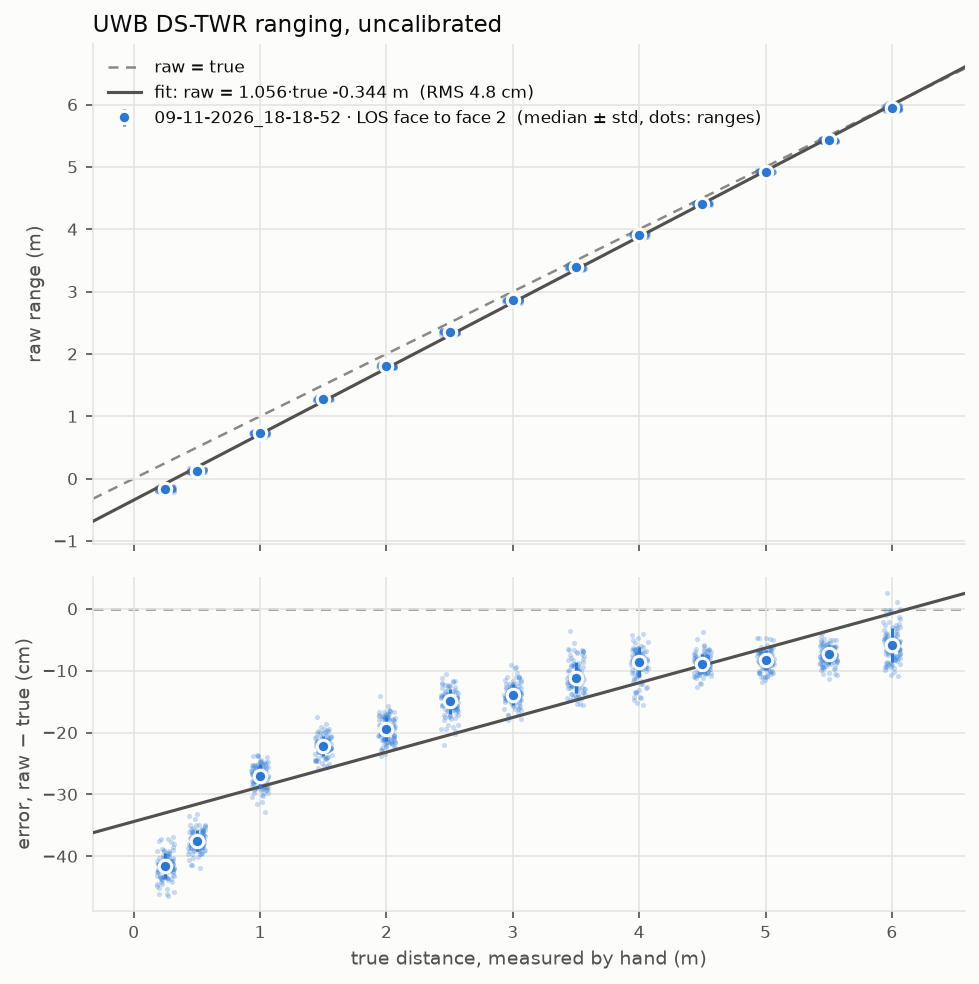
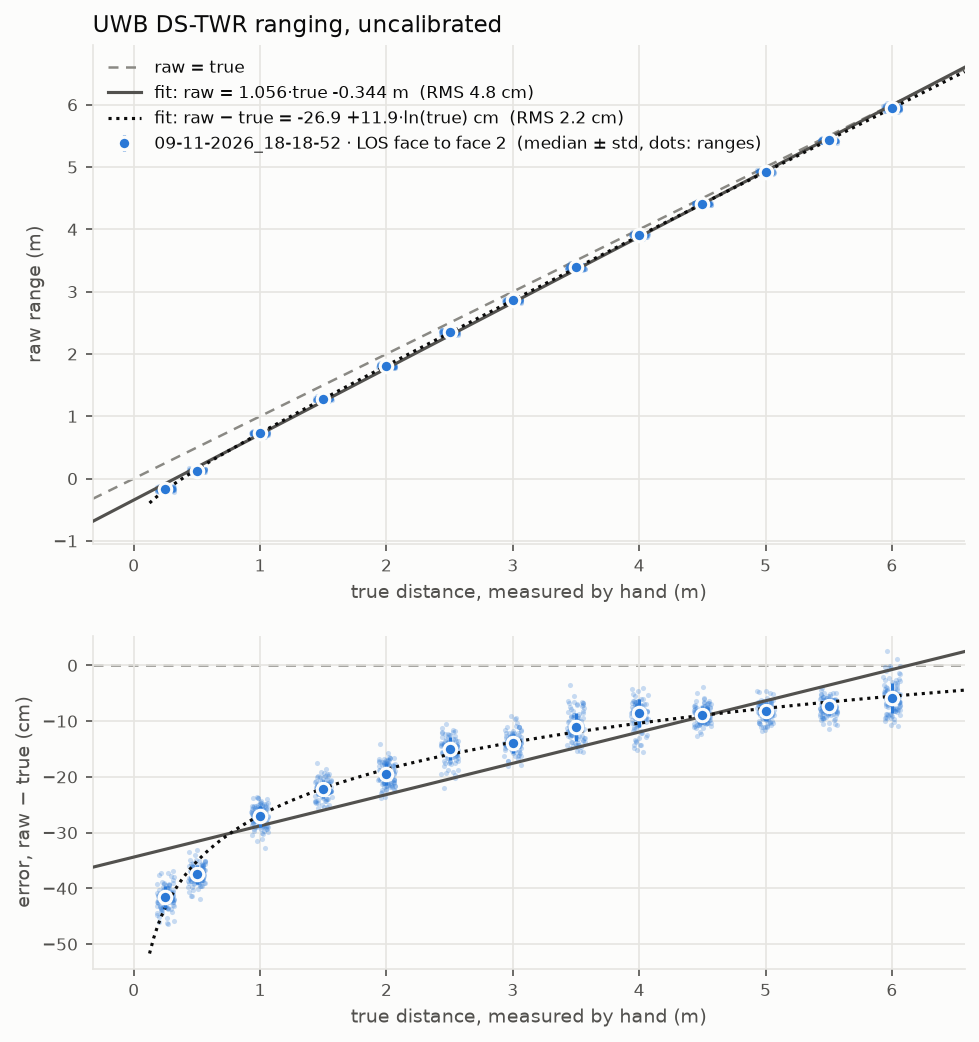
log fit and x axis on every graph

diff --git a/plots/uwb_ranging.py b/plots/uwb_ranging.py
@@ -24,6 +24,11 @@ The fit is  raw = a * true + b  over all non-outlier ranges. Inverted, it
 is the per-anchor correction of hera_uwb (Range = Scale * Raw + Bias):
 Scale = 1/a, Bias = -b/a.
 
+A second fit, error = c0 + c1 * ln(true), follows the DW1000's bias that
+depends on the received power (which falls with 20 log10 of the distance):
+the error is largest close up and shrinks with distance, which a straight
+line can't follow over a wide range of distances.
+
 Needs numpy and matplotlib.
 """
 
@@ -149,6 +154,20 @@ def fit(sessions):
     return {"a": a, "b": b, "rms": float(np.sqrt(np.mean(resid ** 2))), "n": len(x)}
 
 
+def fit_log(sessions):
+    """error = raw - true = c0 + c1 * ln(true), over the non-outlier ranges."""
+    x = np.concatenate([np.full(pt["inlier"].sum(), pt["true"])
+                        for s in sessions for pt in s["points"]])
+    y = np.concatenate([pt["d"][pt["inlier"]] for s in sessions for pt in s["points"]])
+    keep = x > 0
+    x, y = x[keep], y[keep]
+    if len(np.unique(x)) < 2:
+        return None
+    c1, c0 = np.polyfit(np.log(x), y - x, 1)
+    resid = (y - x) - (c0 + c1 * np.log(x))
+    return {"c0": c0, "c1": c1, "rms": float(np.sqrt(np.mean(resid ** 2))), "n": len(x)}
+
+
 def print_table(sessions, limit):
     for s in sessions:
         print(f"\n{s['label']}")
@@ -175,9 +194,9 @@ def jitter(n, width, seed):
     return np.random.default_rng(seed).uniform(-width, width, n)
 
 
-def plot_accuracy(sessions, fitted, out, limit):
-    fig, (ax1, ax2) = plt.subplots(2, 1, sharex=True, figsize=(7.5, 7.5),
-                                   gridspec_kw={"height_ratios": [3, 2], "hspace": 0.08})
+def plot_accuracy(sessions, fitted, fitted_log, out, limit):
+    fig, (ax1, ax2) = plt.subplots(2, 1, sharex=True, figsize=(7.5, 8),
+                                   gridspec_kw={"height_ratios": [3, 2], "hspace": 0.22})
     trues = [pt["true"] for s in sessions for pt in s["points"] if pt["inlier"].any()]
     span = max(trues) - min(trues) if len(trues) > 1 else 1.0
     jw = 0.012 * max(span, 0.5)
@@ -216,7 +235,18 @@ def plot_accuracy(sessions, fitted, out, limit):
         ax1.plot(xs, a * xs + b, color=TEXT_2, lw=1.5, zorder=3,
                  label=f"fit: raw = {a:.3f}·true {b:+.3f} m  (RMS {fitted['rms'] * 100:.1f} cm)")
         ax2.plot(xs, (a * xs + b - xs) * 100, color=TEXT_2, lw=1.5, zorder=3)
+    if fitted_log:
+        c0, c1 = fitted_log["c0"], fitted_log["c1"]
+        xl = np.linspace(max(lo, min(trues) / 2), hi, 200)
+        el = c0 + c1 * np.log(xl)
+        ax1.plot(xl, xl + el, color=TEXT, lw=1.5, ls=(0, (1, 1.5)), zorder=3,
+                 label=f"fit: raw − true = {c0 * 100:+.1f} {c1 * 100:+.1f}·ln(true) cm  "
+                       f"(RMS {fitted_log['rms'] * 100:.1f} cm)")
+        ax2.plot(xl, el * 100, color=TEXT, lw=1.5, ls=(0, (1, 1.5)), zorder=3)
     ax1.set_xlim(lo, hi)
+    # sharex hides the top panel's tick labels: show them on both.
+    ax1.tick_params(labelbottom=True)
+    ax1.set_xlabel("true distance, measured by hand (m)")
 
     ax1.set_ylabel("raw range (m)")
     ax2.set_ylabel("error, raw − true (cm)")
@@ -322,8 +352,13 @@ def main():
               f"{{{1 / a:.4f}, {-b / a:.4f}}}")
     else:
         print("\nFit needs at least two distinct true distances.")
+    fitted_log = fit_log(sessions)
+    if fitted_log:
+        print(f"Log fit over {fitted_log['n']} ranges: raw - true = "
+              f"{fitted_log['c0'] * 100:+.2f} {fitted_log['c1'] * 100:+.2f} * ln(true) cm, "
+              f"residual RMS {fitted_log['rms'] * 100:.1f} cm")
 
-    plot_accuracy(sessions, fitted, out, args.outlier_m)
+    plot_accuracy(sessions, fitted, fitted_log, out, args.outlier_m)
     plot_samples(sessions, out, args.outlier_m)
     print(f"\nPlots in {out}/: ranging_accuracy.png, ranging_samples.png")
 
